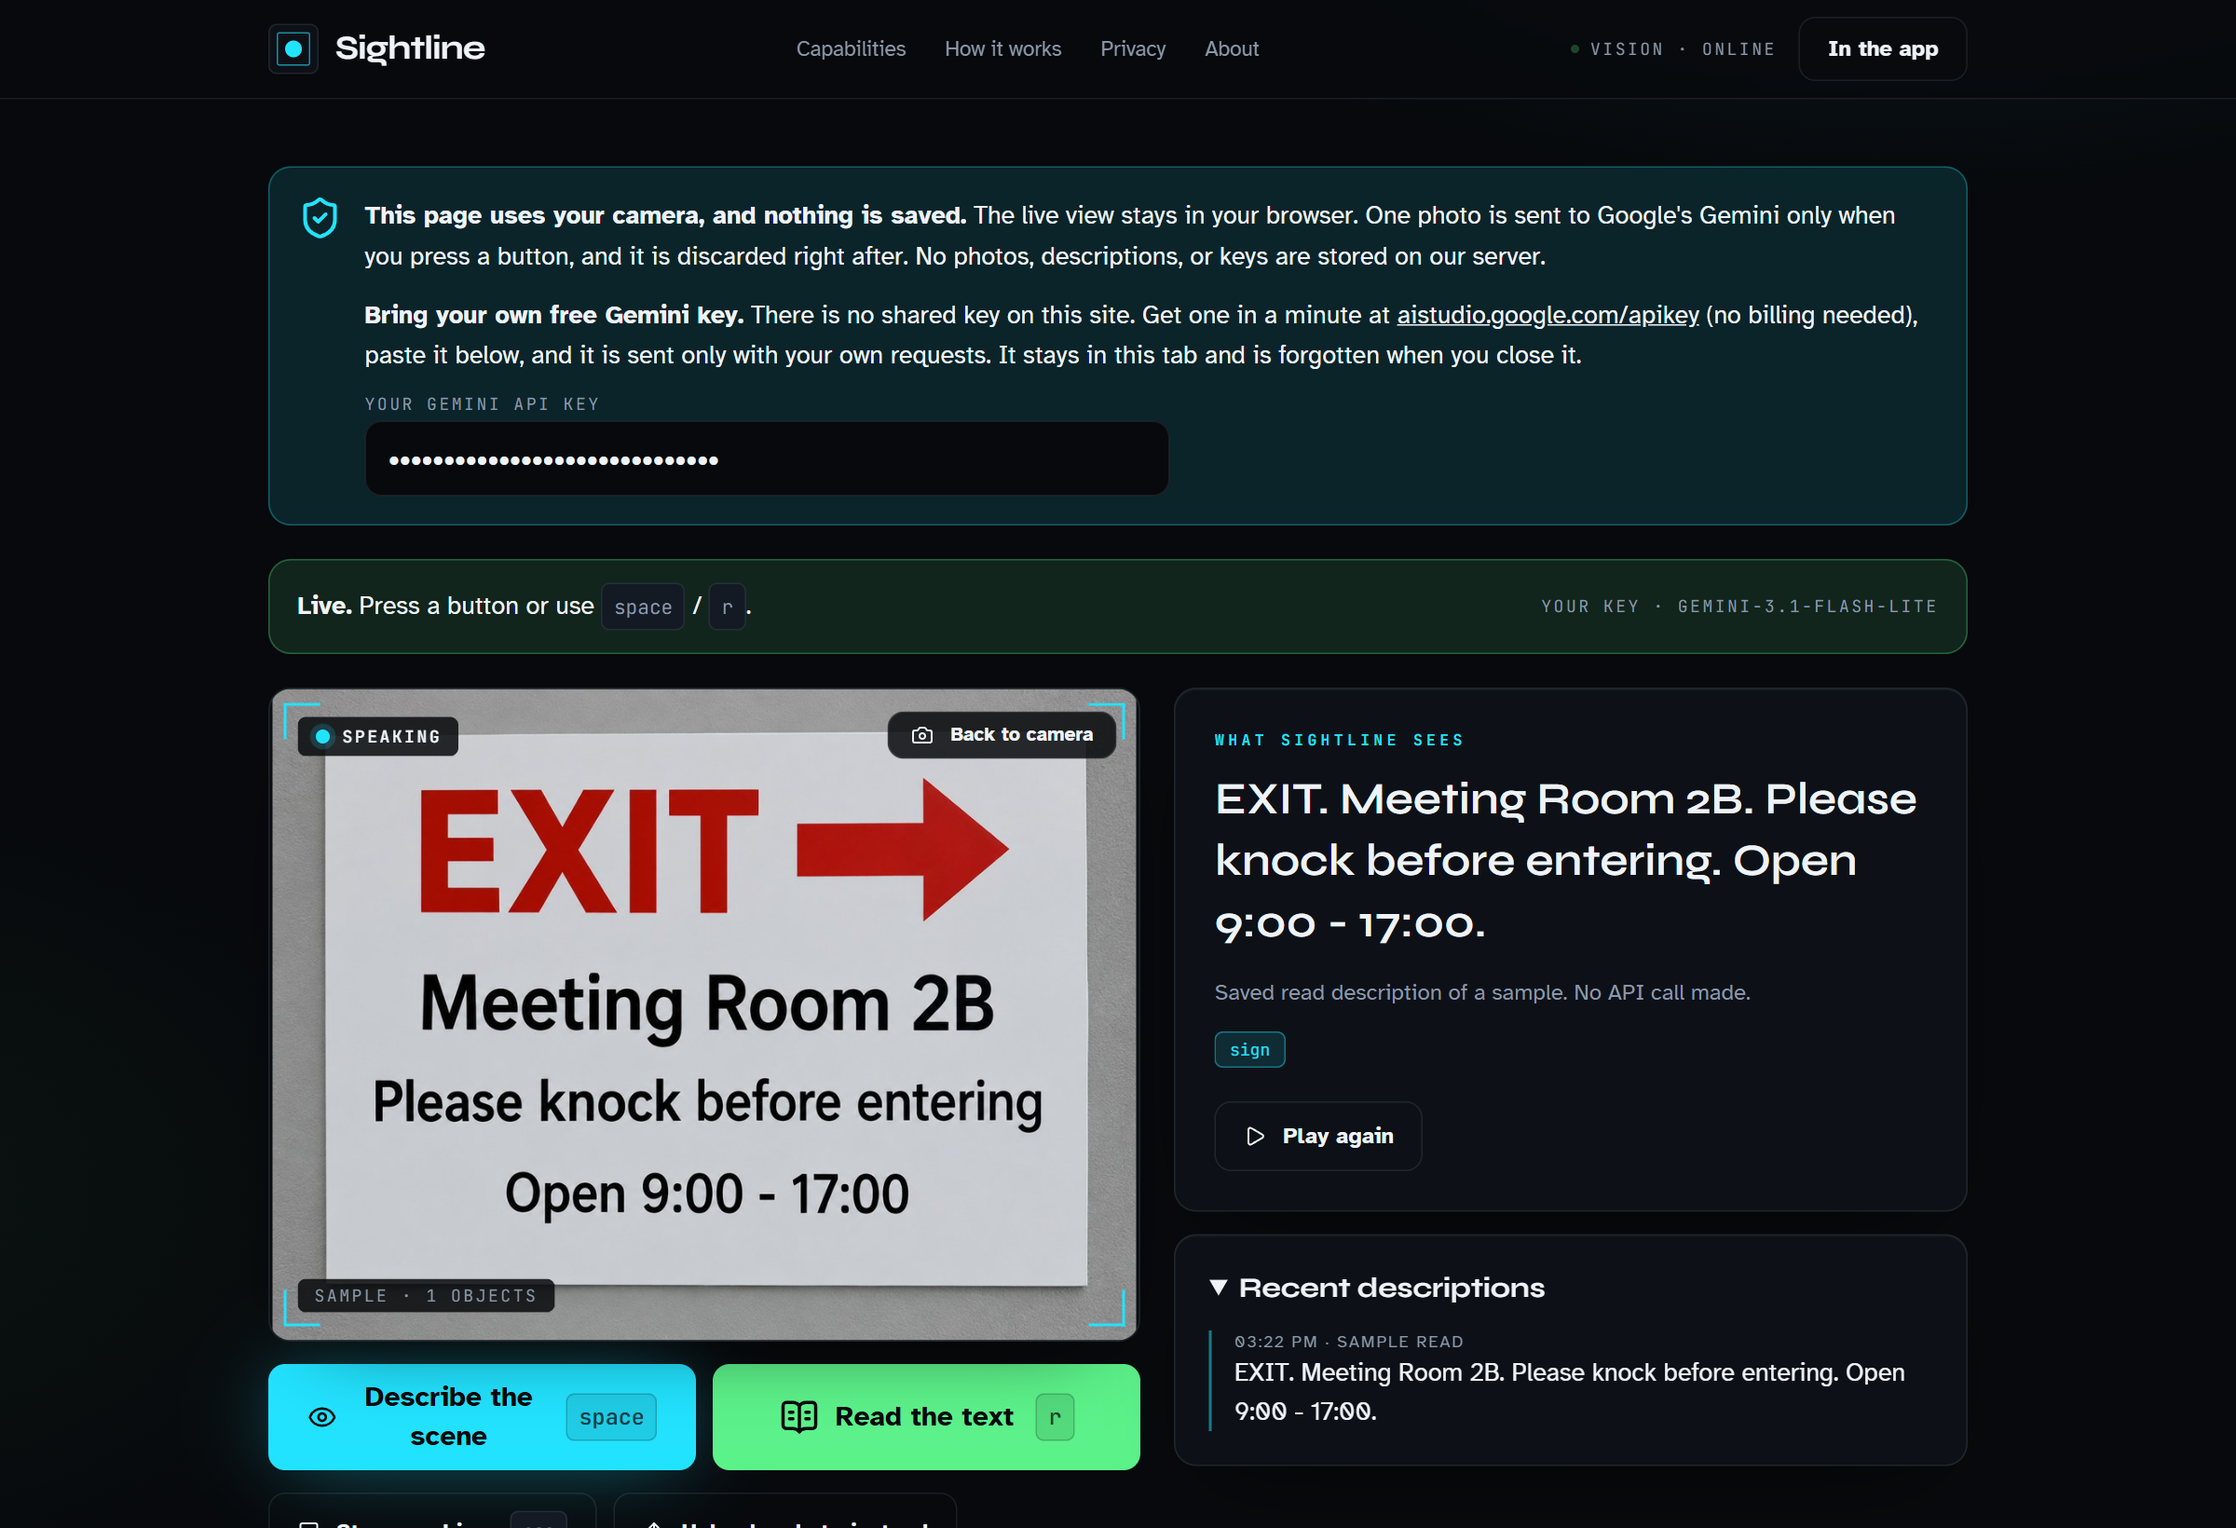
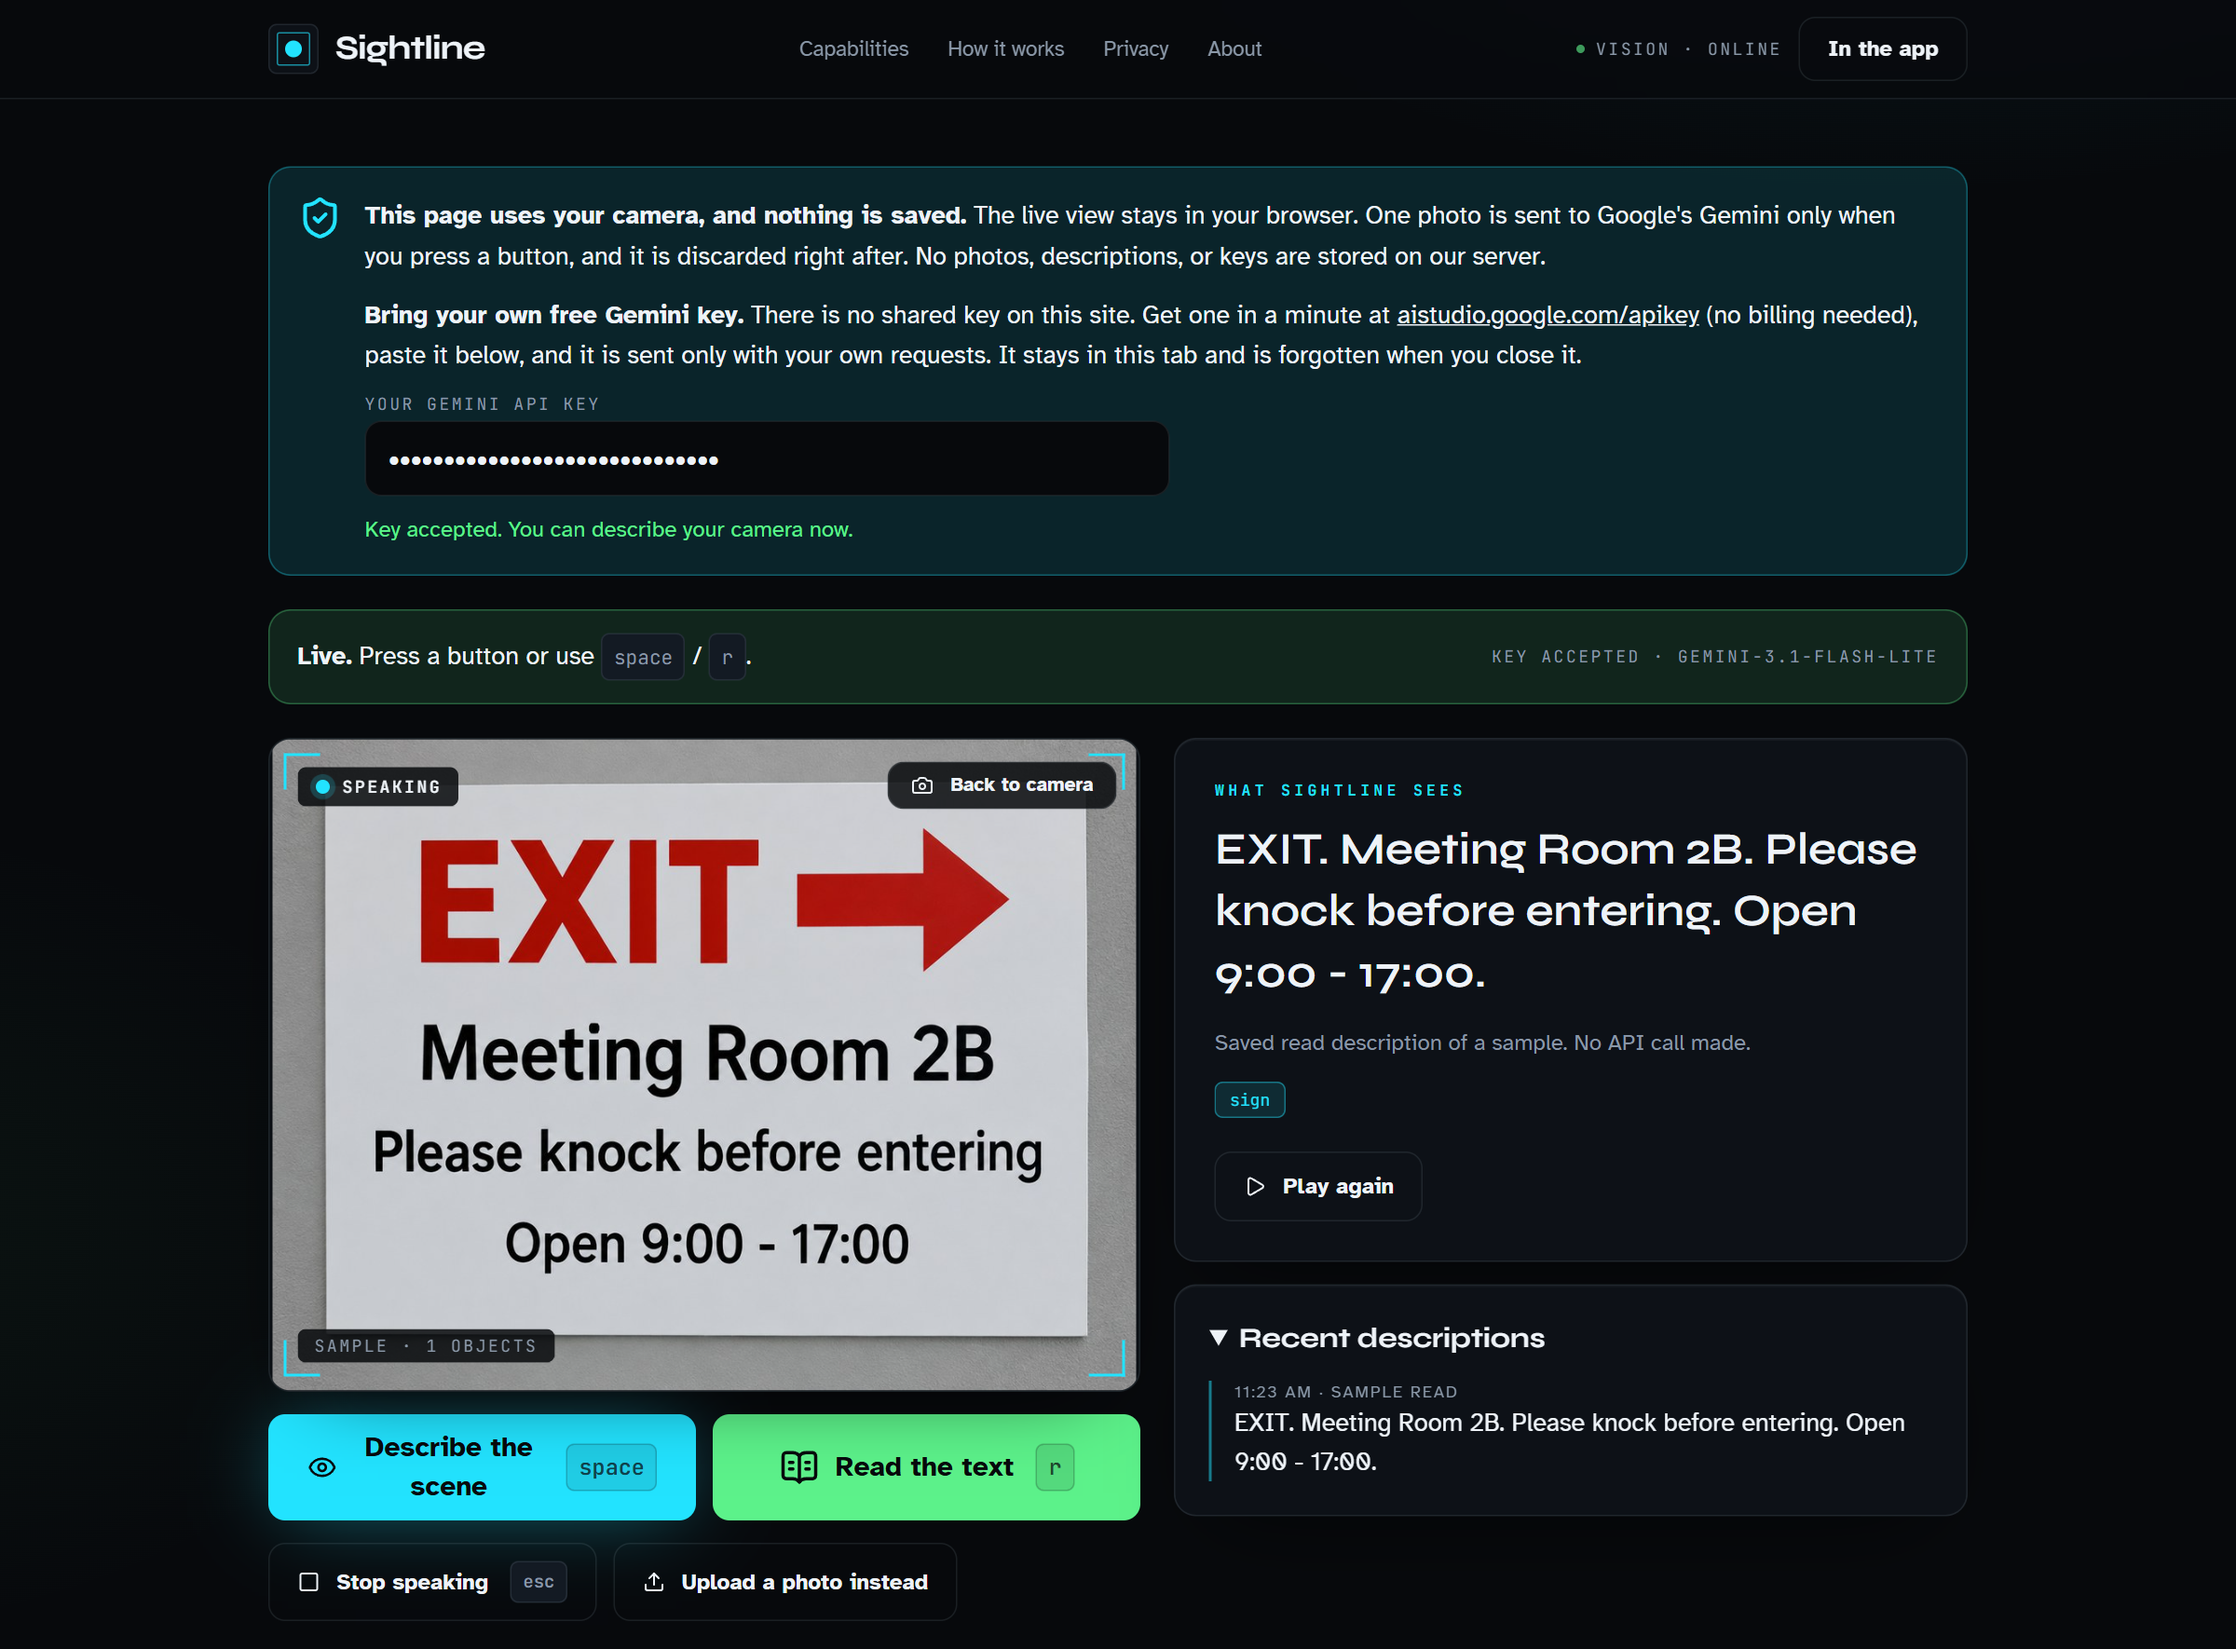
README: screenshot of the current app page

diff --git a/README.md b/README.md
@@ -28,7 +28,7 @@ Created by **Ali Hadi Meselmani**
 <br/>
 
 <a href="https://sightline-rho-khaki.vercel.app/app">
-  <img src="docs/screenshot-app.png" alt="The Sightline app page: a notice that the page uses your camera and nothing is saved, the field for your own Gemini key, a viewfinder with corner brackets showing a sample sign, the sign's text read back in large type, and the Describe the scene and Read the text buttons." width="100%">
+  <img src="docs/screenshot-app.png" alt="The Sightline app page: a notice that the page uses your camera and nothing is saved, the field for your own Gemini key showing Key accepted, a live status strip, a viewfinder with corner brackets showing a sample sign, the sign's text read back in large type, and the Describe the scene and Read the text buttons." width="100%">
 </a>
 
 </div>
